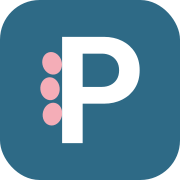
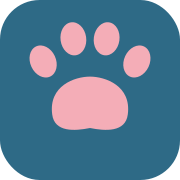
이름을 PawTrip으로 변경, 새 로고(발가락+i 발바닥) 적용
Claude-Session: https://claude.ai/code/session_01V8ND8c5FDq3mgVKqjF2GzP

Changed region(s): [[0.1389, 0.1111, 0.8611, 0.8056]]

diff --git a/index.html b/index.html
@@ -6,7 +6,7 @@
 <meta name="description" content="한국에서 반려견과 해외여행을 떠날 때 필요한 국가별 입국 검역 규정, 항공사 반려동물 탑승 규정, 출국일 역산 준비 일정을 공식 출처 기준으로 정리했습니다.">
 <meta name="keywords" content="반려견 해외여행, 강아지 해외여행, 반려동물 검역, 강아지 비행기, 반려동물 항공 규정, 일본 강아지 입국, 광견병 항체검사">
 <meta property="og:type" content="website">
-<meta property="og:title" content="펫패스포트 · 반려견과 해외여행 준비">
+<meta property="og:title" content="PawTrip · 반려견과 해외여행 준비">
 <meta property="og:description" content="국가별 입국 검역, 항공사 탑승 규정, 출국일 역산 일정을 한 곳에서.">
 <meta property="og:locale" content="ko_KR">
 <meta property="og:image" content="https://gonggit-0710.github.io/PetPassport/media/og.jpg">
@@ -17,7 +17,7 @@
 <link rel="icon" href="media/mark.svg" type="image/svg+xml">
 <link rel="apple-touch-icon" href="media/apple-touch-icon.png">
 <style>html{color-scheme:light}:root{padding-top:env(safe-area-inset-top,0px);padding-bottom:env(safe-area-inset-bottom,0px)}body{margin:0}img{max-width:100%}[hidden]{display:none!important}</style>
-<title>펫패스포트 · 반려견과 해외여행 준비</title>
+<title>PawTrip · 반려견과 해외여행 준비</title>
 <link rel="preconnect" href="https://fonts.googleapis.com">
 <link rel="preconnect" href="https://fonts.gstatic.com" crossorigin>
 <link rel="stylesheet" href="https://fonts.googleapis.com/css2?family=Hahmlet:wght@500&family=IBM+Plex+Sans+KR:wght@400;500;600&family=DM+Mono:wght@400;500&display=swap">
@@ -56,7 +56,7 @@ a:focus-visible,button:focus-visible,input:focus-visible,select:focus-visible{ou
 .mast{display:flex;flex-wrap:wrap;align-items:flex-end;justify-content:space-between;gap:12px 24px;padding-bottom:16px;border-bottom:1px solid var(--line)}
 .brand{display:flex;align-items:center;gap:12px}
 .logo{margin:0;line-height:0;color:var(--ink)}
-.logo-svg{display:block;height:38px;width:auto;max-width:100%}
+.logo-svg{display:block;height:40px;width:auto;max-width:100%}
 .sr-only{position:absolute;width:1px;height:1px;overflow:hidden;clip:rect(0 0 0 0);white-space:nowrap}
 .brand{flex-direction:column;align-items:flex-start;gap:6px}
 .brand p{margin:0;font-size:13.5px}
@@ -178,7 +178,7 @@ input[type=text]{font:inherit;padding:9px 10px;border:1px solid var(--line);bord
 <div class="wrap">
   <header class="mast">
     <div class="brand">
-      <h1 class="logo"><span class="sr-only">펫패스포트 PetPassport</span><svg class="logo-svg" xmlns="http://www.w3.org/2000/svg" viewBox="-110 0 5626.0 935" aria-hidden="true" focusable="false"><g fill="var(--paw)"><ellipse cx="6" cy="192" rx="64" ry="76" transform="rotate(-20 6 192)"/><ellipse cx="-8" cy="360" rx="64" ry="76" transform="rotate(-6 -8 360)"/><ellipse cx="8" cy="528" rx="64" ry="76" transform="rotate(14 8 528)"/></g><g fill="currentColor"><path transform="translate(0 720) scale(1 -1)" d="M72 0V703H349Q416 703 469.5 676.0Q523 649 554.0 599.5Q585 550 585.0 482.0Q585 414 554.0 364.5Q523 315 469.5 288.0Q416 261 349 261H208V0ZM208 592V372H335Q367 372 393.0 385.0Q419 398 434.0 422.5Q449 447 449 482Q449 516 434.0 541.0Q419 566 393.0 579.0Q367 592 335 592Z"/><path transform="translate(604.0 720) scale(1 -1)" d="M289 -10Q213 -10 154.0 22.5Q95 55 60.5 112.0Q26 169 26 242Q26 314 59.5 370.5Q93 427 151.0 460.5Q209 494 280 494Q350 494 403.5 462.5Q457 431 487.5 376.5Q518 322 518 253Q518 240 516.5 226.5Q515 213 511 196L158 195Q162 180 169 168Q185 135 216.0 117.5Q247 100 288 100Q325 100 355.0 112.5Q385 125 407 150L484 73Q449 32 398.5 11.0Q348 -10 289 -10ZM158 293 392 294Q388 311 382 325Q368 354 342.5 369.5Q317 385 280 385Q241 385 212.0 367.5Q183 350 168 319Q162 307 158 293Z"/><path transform="translate(1133.0 720) scale(1 -1)" d="M129 0V368H16V483H129V684H260V483H373V368H260V0Z"/><path transform="translate(1510.0 720) scale(1 -1)" d="M72 0V703H349Q416 703 469.5 676.0Q523 649 554.0 599.5Q585 550 585.0 482.0Q585 414 554.0 364.5Q523 315 469.5 288.0Q416 261 349 261H208V0ZM208 592V372H335Q367 372 393.0 385.0Q419 398 434.0 422.5Q449 447 449 482Q449 516 434.0 541.0Q419 566 393.0 579.0Q367 592 335 592Z"/><path transform="translate(2114.0 720) scale(1 -1)" d="M260 -10Q194 -10 141.0 23.0Q88 56 58.0 113.0Q28 170 28 241Q28 313 58.0 370.0Q88 427 141.0 460.0Q194 493 260 493Q312 493 353 472Q380 458 400 437V483H530V0H400V47Q380 26 353 12Q312 -10 260 -10ZM284 111Q339 111 373.0 147.5Q407 184 407 242Q407 280 391.5 309.5Q376 339 348.5 355.5Q321 372 284 372Q248 372 220.5 355.5Q193 339 177.5 309.5Q162 280 162 242Q162 203 177.5 173.5Q193 144 220.5 127.5Q248 111 284 111Z"/><path transform="translate(2690.0 720) scale(1 -1)" d="M224 -11Q183 -11 143.5 0.0Q104 11 71.0 30.5Q38 50 14 78L92 157Q117 129 150.0 115.0Q183 101 223 101Q255 101 271.5 110.0Q288 119 288 137Q288 157 270.5 168.0Q253 179 225.0 186.5Q197 194 166.5 203.5Q136 213 108.0 228.5Q80 244 62.5 271.5Q45 299 45 343Q45 389 67.5 423.0Q90 457 132.0 476.0Q174 495 231 495Q291 495 339.5 474.0Q388 453 420 411L341 332Q319 359 291.5 371.0Q264 383 232 383Q203 383 187.5 374.0Q172 365 172 349Q172 331 189.5 321.0Q207 311 235.0 303.5Q263 296 293.5 286.5Q324 277 351.5 260.0Q379 243 396.5 215.0Q414 187 414 143Q414 72 363.0 30.5Q312 -11 224 -11Z"/><path transform="translate(3122.0 720) scale(1 -1)" d="M224 -11Q183 -11 143.5 0.0Q104 11 71.0 30.5Q38 50 14 78L92 157Q117 129 150.0 115.0Q183 101 223 101Q255 101 271.5 110.0Q288 119 288 137Q288 157 270.5 168.0Q253 179 225.0 186.5Q197 194 166.5 203.5Q136 213 108.0 228.5Q80 244 62.5 271.5Q45 299 45 343Q45 389 67.5 423.0Q90 457 132.0 476.0Q174 495 231 495Q291 495 339.5 474.0Q388 453 420 411L341 332Q319 359 291.5 371.0Q264 383 232 383Q203 383 187.5 374.0Q172 365 172 349Q172 331 189.5 321.0Q207 311 235.0 303.5Q263 296 293.5 286.5Q324 277 351.5 260.0Q379 243 396.5 215.0Q414 187 414 143Q414 72 363.0 30.5Q312 -11 224 -11Z"/><path transform="translate(3554.0 720) scale(1 -1)" d="M326 -10Q274 -10 232 12Q207 24 188 43V-202H58V483H189V440Q208 458 233 471Q274 493 326 493Q393 493 446.0 460.0Q499 427 529.5 370.0Q560 313 560 241Q560 170 529.5 113.0Q499 56 446.0 23.0Q393 -10 326 -10ZM303 111Q339 111 367.0 127.5Q395 144 410.5 173.5Q426 203 426 242Q426 280 410.5 309.5Q395 339 367.0 355.5Q339 372 303 372Q268 372 240.0 355.5Q212 339 196.5 309.5Q181 280 181 242Q181 203 196.5 173.5Q212 144 239.5 127.5Q267 111 303 111Z"/><path transform="translate(4130.0 720) scale(1 -1)" d="M285 -10Q212 -10 153.5 23.5Q95 57 60.5 114.5Q26 172 26 243Q26 314 60.0 370.5Q94 427 153.0 460.5Q212 494 284 494Q358 494 416.5 460.5Q475 427 509.0 370.5Q543 314 543 243Q543 172 509.0 114.5Q475 57 416.5 23.5Q358 -10 285 -10ZM284 112Q321 112 349.5 128.5Q378 145 393.5 174.5Q409 204 409 242Q409 280 393.0 309.0Q377 338 349.0 354.5Q321 371 284 371Q248 371 220.0 354.5Q192 338 176.0 309.0Q160 280 160 242Q160 204 176.0 174.5Q192 145 220.0 128.5Q248 112 284 112Z"/><path transform="translate(4687.0 720) scale(1 -1)" d="M58 0V483H189V440Q189 441 190 442Q233 493 314 493Q349 493 377.0 481.5Q405 470 428 444L346 350Q335 362 319.5 368.0Q304 374 284 374Q242 374 215.5 347.5Q189 321 189 267V0Z"/><path transform="translate(5109.0 720) scale(1 -1)" d="M129 0V368H16V483H129V684H260V483H373V368H260V0Z"/></g></svg></h1>
+      <h1 class="logo"><span class="sr-only">PawTrip 포트립</span><svg class="logo-svg" xmlns="http://www.w3.org/2000/svg" viewBox="-110 -60 3952 995" aria-hidden="true" focusable="false"><path fill="currentColor" d="M72 720V17H349Q416 17 469.5 44.0Q523 71 554.0 120.5Q585 170 585.0 238.0Q585 306 554.0 355.5Q523 405 469.5 432.0Q416 459 349 459H208V720ZM208 128V348H335Q367 348 393.0 335.0Q419 322 434.0 297.5Q449 273 449 238Q449 204 434.0 179.0Q419 154 393.0 141.0Q367 128 335 128Z M866 730Q800 730 747.0 697.0Q694 664 664.0 607.0Q634 550 634 479Q634 407 664.0 350.0Q694 293 747.0 260.0Q800 227 866 227Q918 227 959 248Q986 262 1006 283V237H1136V720H1006V673Q986 694 959 708Q918 730 866 730ZM890 609Q945 609 979.0 572.5Q1013 536 1013 478Q1013 440 997.5 410.5Q982 381 954.5 364.5Q927 348 890 348Q854 348 826.5 364.5Q799 381 783.5 410.5Q768 440 768 478Q768 517 783.5 546.5Q799 576 826.5 592.5Q854 609 890 609Z M1371 720 1190 237H1322L1420 530L1521 237H1616L1717 530L1815 237H1947L1767 720H1672L1569 437L1465 720Z M2189 720V138H1965V17H2550V138H2326V720Z M2620 720V237H2751V280Q2751 279 2752 278Q2795 227 2876 227Q2911 227 2939.0 238.5Q2967 250 2990 276L2908 370Q2897 358 2881.5 352.0Q2866 346 2846 346Q2804 346 2777.5 372.5Q2751 399 2751 453V720Z M3044 720V237H3175V720Z M3550 730Q3498 730 3456 708Q3431 696 3412 677V922H3282V237H3413V280Q3432 262 3457 249Q3498 227 3550 227Q3617 227 3670.0 260.0Q3723 293 3753.5 350.0Q3784 407 3784 479Q3784 550 3753.5 607.0Q3723 664 3670.0 697.0Q3617 730 3550 730ZM3527 609Q3563 609 3591.0 592.5Q3619 576 3634.5 546.5Q3650 517 3650 478Q3650 440 3634.5 410.5Q3619 381 3591.0 364.5Q3563 348 3527 348Q3492 348 3464.0 364.5Q3436 381 3420.5 410.5Q3405 440 3405 478Q3405 517 3420.5 546.5Q3436 576 3463.5 592.5Q3491 609 3527 609Z"/><g fill="var(--paw)"><ellipse cx="6" cy="192" rx="64" ry="76" transform="rotate(-20 6 192)"/><ellipse cx="-8" cy="360" rx="64" ry="76" transform="rotate(-6 -8 360)"/><ellipse cx="8" cy="528" rx="64" ry="76" transform="rotate(14 8 528)"/><g transform="rotate(8 3110 110)"><path d="M3035.0,137.0 C3027.5,80.0 3080.0,62.0 3110.0,62.0 C3140.0,62.0 3192.5,80.0 3185.0,137.0 C3180.5,173.0 3140.0,170.0 3110.0,164.0 C3080.0,170.0 3039.5,173.0 3035.0,137.0Z"/><ellipse cx="3017.0" cy="32.0" rx="25.5" ry="33.0" transform="rotate(-25 3017.0 32.0)"/><ellipse cx="3077.0" cy="-13.0" rx="25.5" ry="33.0" transform="rotate(-8 3077.0 -13.0)"/><ellipse cx="3143.0" cy="-13.0" rx="25.5" ry="33.0" transform="rotate(8 3143.0 -13.0)"/><ellipse cx="3203.0" cy="32.0" rx="25.5" ry="33.0" transform="rotate(25 3203.0 32.0)"/></g></g></svg></h1>
       <p class="muted">반려견과 함께 떠나는 해외여행, 검역부터 탑승까지</p>
     </div>
     <div class="verified">
@@ -211,7 +211,7 @@ input[type=text]{font:inherit;padding:9px 10px;border:1px solid var(--line);bord
 
   <main id="app"><p class="muted">규정 데이터를 불러오는 중입니다…</p></main>
 
-  <p class="foot">펫패스포트는 공식 출처를 요약한 참고 자료입니다. 각국 검역당국과 항공사는 규정을 예고 없이 바꿉니다. 출국 전 각 항목의 출처 링크에서 최신 내용을 다시 확인하세요. 입국 거부·격리에 대한 책임은 지지 않습니다.</p>
+  <p class="foot">PawTrip은 공식 출처를 요약한 참고 자료입니다. 각국 검역당국과 항공사는 규정을 예고 없이 바꿉니다. 출국 전 각 항목의 출처 링크에서 최신 내용을 다시 확인하세요. 입국 거부·격리에 대한 책임은 지지 않습니다.</p>
 </div>
 
 <script>

diff --git a/README.md b/README.md
@@ -1,4 +1,4 @@
-# 펫패스포트 (PetPassport)
+# PawTrip (포트립)
 
 한국에서 반려견과 해외여행을 떠나는 보호자를 위한 검역·탑승 준비 사이트입니다.
 
